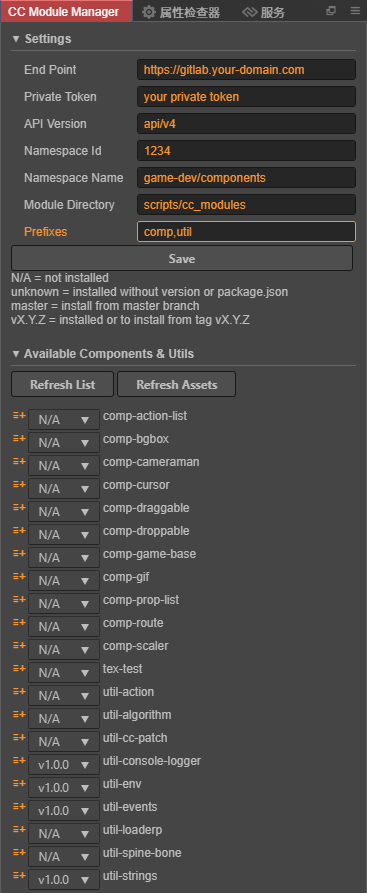
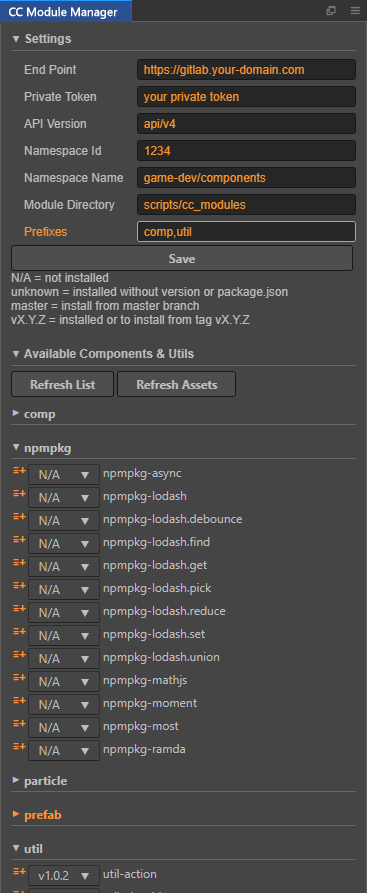
feature: group modules with same prefix

diff --git a/panel/panel.html b/panel/panel.html
@@ -20,7 +20,7 @@
 
   <ui-section id="comps-utils">
     <div class="header" v-text="$t('availableModules')"></div>
-    <span v-if="!hasSettings()">Please fill above Gitlab settings</span>
+    <span v-if="!hasSettings()">{{$t('fillGitlabSettings')}}</span>
     <div class="layout horizontal">
       <ui-button @confirm="refresh">
         <i class="icon-refresh"></i>
@@ -32,25 +32,28 @@
       </ui-button>
     </div>
     <div class="error" style="color:red">{{errorMsg}}</div>
-    <ul class="comp-list" v-if="items.length > 0">
-      <li class="comp-item layout horizontal" v-for="it in items" :data-id="it.id" style="margin-bottom: 2px;">
-        <a class="box" href="javascript:;" data-tag="master" :data-id="it.id" @click="download($event, it.id, it.name)">
-          <i class="icon-list-add"></i>
-        </a>
-        <ui-select :id="`project-tags-${it.id}`" class="box" class="tiny"
-          style="background-color: transparent;border-radius:2px;width:6em;"
-          v-if="tags[it.id]"
-          @confirm="onTagChanged($event, it)">
-          <option
-            v-for="tag in tags[it.id]"
-            :value="tag.name">{{tag.name}}
-          </option>
-        </ui-select>
-        <span class="box name" :title="it.id">
-          <a :href="it.url" style="color:#bdbdbd">{{it.name}}</a>
-          <ui-hint class="box desc">{{it.desc}}</ui-hint>
-        </span>
-      </li>
-    </ul>
+    <ui-section v-for="(group, items) in groupedItems">
+      <div class="header" v-text="group"></div>
+      <ul class="comp-list" v-if="items.length > 0">
+        <li class="comp-item layout horizontal" v-for="it in items" :data-id="it.id" style="margin-bottom: 2px;">
+          <a class="box" href="javascript:;" data-tag="master" :data-id="it.id" @click="download($event, it.id, it.name)">
+            <i class="icon-list-add"></i>
+          </a>
+          <ui-select :id="`project-tags-${it.id}`" class="box" class="tiny"
+            style="background-color: transparent;border-radius:2px;width:6em;"
+            v-if="tags[it.id]"
+            @confirm="onTagChanged($event, it)">
+            <option
+              v-for="tag in tags[it.id]"
+              :value="tag.name">{{tag.name}}
+            </option>
+          </ui-select>
+          <span class="box name" :title="it.id">
+            <a :href="it.url" style="color:#bdbdbd">{{it.name}}</a>
+            <ui-hint class="box desc">{{it.desc}}</ui-hint>
+          </span>
+        </li>
+      </ul>
+    </ui-section>
   </ul-section>
 </div>

diff --git a/panel/index.js b/panel/index.js
@@ -15,6 +15,7 @@ const vm = (el) => {
         gitlab: $gitlab.GITLAB,
         settingsSaved: false,
         items: [],
+        groupedItems: {},
         branches: {},
         tags: {},
         errorMsg: ''
@@ -74,11 +75,20 @@ const vm = (el) => {
               url: p.web_url
             };
           }))
-          .then(all => this.items = all.sort((a, b) => {
-            if (a.name < b.name) return -1;
-            if (a.name > b.name) return 1;
-            return 0;
-          }))
+          .then(all => {
+            this.items = all.sort((a, b) => {
+              if (a.name < b.name) return -1;
+              if (a.name > b.name) return 1;
+              return 0;
+            });
+
+            this.groupedItems = this.items.reduce((all, it) => {
+              const [prefix, _] = it.name.split('-');
+              if (!all[prefix]) all[prefix] = [];
+              all[prefix].push(it);
+              return all;
+            }, {});
+          })
           .catch(err => {
             this.errorMsg = err;
           });

diff --git a/i18n/en.js b/i18n/en.js
@@ -12,6 +12,7 @@ module.exports = {
   moduleDirectory: 'Module Directory',
   prefixes: 'Prefixes',
   save: 'Save',
+  fillGitlabSettings: 'Please fill above Gitlab settings',
   explanation: `
     <li>N/A = not installed</li>
     <li>unknown = installed without version or package.json</li>

diff --git a/i18n/zh.js b/i18n/zh.js
@@ -12,6 +12,7 @@ module.exports = {
   moduleDirectory: '模块目录',
   prefixes: '模块前缀列表',
   save: 'Save',
+  fillGitlabSettings: '请填写Gitlab设置参数',
   explanation: `
     <li>N/A = 未安装</li>
     <li>unknown = 未知版本</li>

diff --git a/panel/style.css b/panel/style.css
@@ -6,6 +6,9 @@
   overflow-x: hidden;
   height: 100%;
 }
+ui-section {
+  margin-bottom: 0;
+}
 .comp-list {
   padding: 0;
 }
